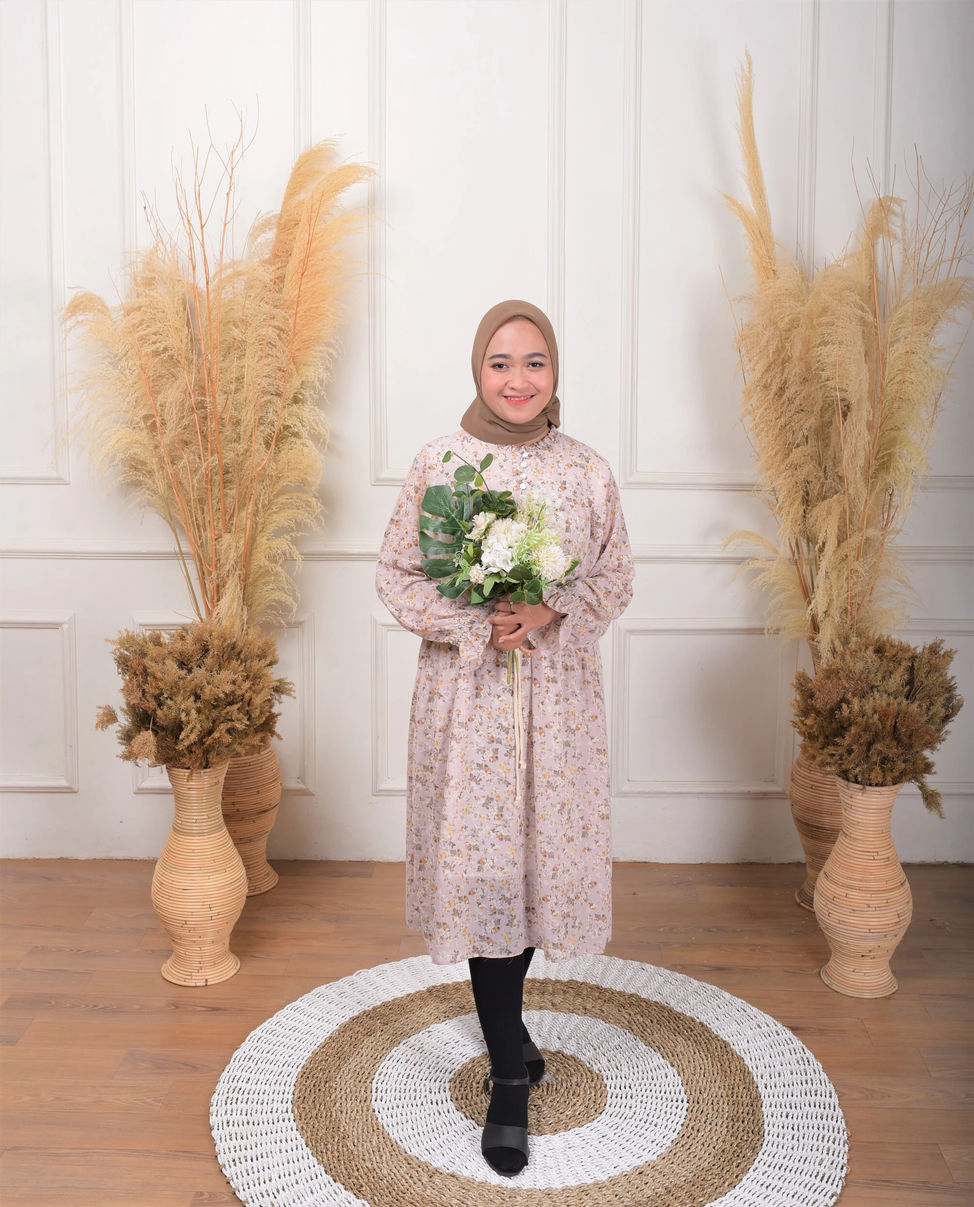
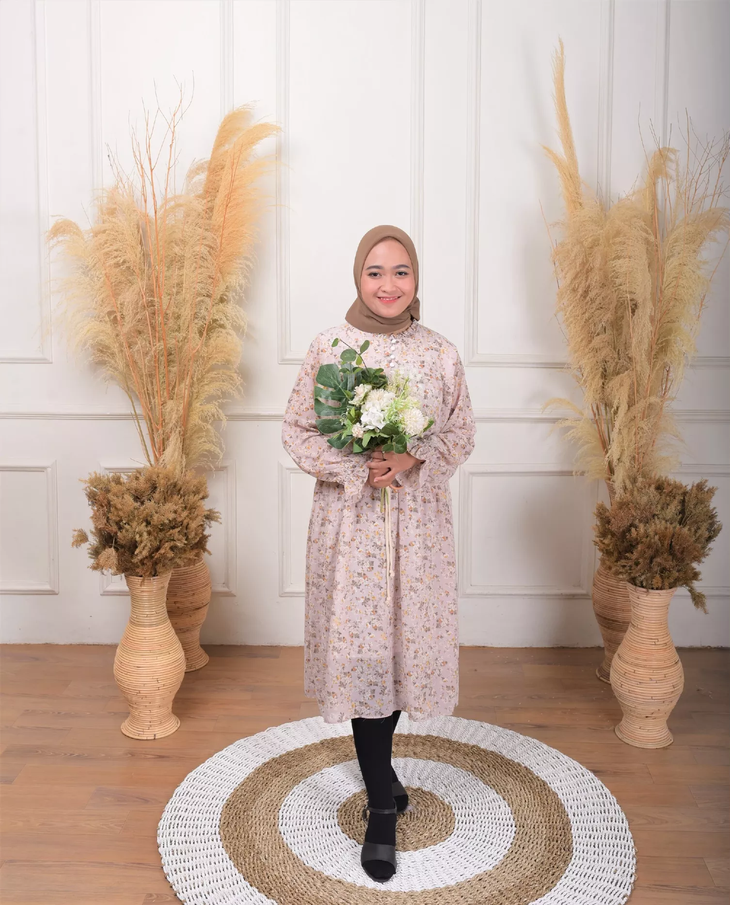
Hotfix 1. Memperbaiki resolusi gambar. 2. Memper baiki typo pada komponen Hero.

diff --git a/src/components/Hero/index.jsx b/src/components/Hero/index.jsx
@@ -72,7 +72,7 @@ const Hero = () => {
   const mempelaiPria = wedding.mempelai.pria.namaDepan;
   const mempelaiWanita = wedding.mempelai.wanita.namaDepan;
   const mempelai = `${mempelaiPria} & ${mempelaiWanita}`;
-  const undangan = "Udangan Pernikahan";
+  const undangan = "Undangan Pernikahan";
 
   return (
     <motion.div
